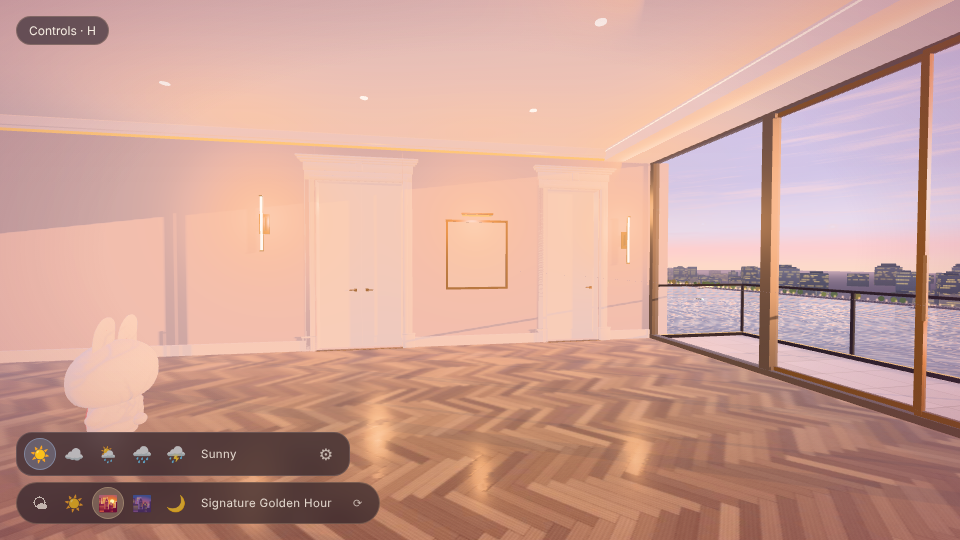
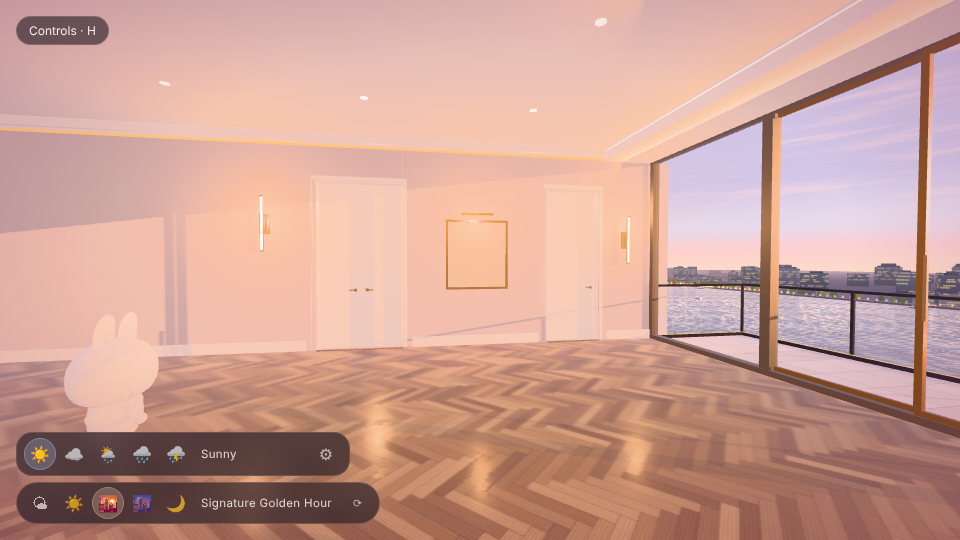
s03 evidence: clean door wall with slim casings
Claude-Session: https://claude.ai/code/session_017ZtboRbFUCo4FCo9fUW3pH

Changed region(s): [[0.6875, 0.5333, 1.0, 0.6815], [0.3125, 0.5926, 0.3438, 0.6222]]

diff --git a/docs/bible/DEFECTS.md b/docs/bible/DEFECTS.md
@@ -19,4 +19,4 @@
 - BLENDER evidence: assets/blender/render_cafe_kit.py → evidence/blender_cafe_kit.png (Cycles render of baked café kit; exposure high, kit only — not a scene match). Capsule 1.54 m vs 1.1 m rabbit: owner decision.
 - D-008: mullions slimmed at load (24-vertex pier boxes scaled to 55–68% section, evidence/s01_glazing_slim.png). Remaining: balcony pink cherry tree not in approved AFTER (owner decision).
 - s03 (wall-side interior): removed raised-panel mouldings, fluted pilaster, ornate cornice, flanking panels and raised door-leaf panels (Plan.jsx) per audit items 01–03; flush doors. Still open: door casings (Blender arch_* kit) are heavier than the target, cove strip along the left wall, framed marble artwork, PBR variation on plaster.
-- s03: cove strip + framed artwork + picture light added (evidence/s03_door_wall.png). Door-head pediments (arch_* kit) still heavier than target.
+- s03: cove strip + framed artwork + picture light added (evidence/s03_door_wall.png). Door casings slimmed to flat 7 cm architrave (Blender rebake).
